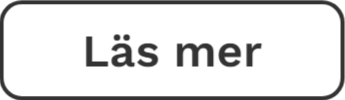
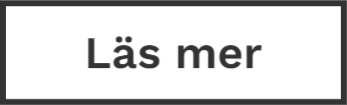
Cropped and scaled down all card textures, switched read more texture

Changed region(s): [[0.0, 0.0, 1.0, 1.0], [0.2319, 0.33, 0.4638, 0.69], [0.4928, 0.42, 0.7826, 0.69]]

diff --git a/js/main.js b/js/main.js
@@ -243,8 +243,8 @@ class Orbit {
         btn_material.map.magFilter = THREE.LinearFilter;
         btn_material.map.minFilter = THREE.LinearMipmapLinearFilter;
 
-        const btn_w = 0.85;
-        const btn_geometry = new THREE.PlaneGeometry(btn_w, btn_w * 0.29); // Aspect ratio hard-coded
+        const btn_w = 0.90;
+        const btn_geometry = new THREE.PlaneGeometry(btn_w, btn_w * 0.3026); // Aspect ratio hard-coded
         const btn_mesh = new THREE.Mesh(btn_geometry, btn_material);
         entity.add(btn_mesh);
         
@@ -533,54 +533,124 @@ function main() {
 
     const cards_data = [
         {
+            path: 'media/Group 121.png', 
+            width: 558, height: 600,
+            title: 'Title 0',
+            content: `Lorem ipsum dolor sit amet, consectetur adipiscing elit, sed do eiusmod tempor 
+                incididunt ut labore et dolore magna aliqua. In arcu cursus euismod quis viverra nibh cras. 
+                Bibendum est ultricies integer quis auctor elit sed. Est lorem ipsum dolor sit amet. 
+                Netus et malesuada fames ac turpis egestas maecenas. Dolor purus non enim praesent elementum 
+                facilisis leo. Quis ipsum suspendisse ultrices gravida. Tristique et egestas quis ipsum 
+                suspendisse ultrices gravida. Aenean euismod elementum nisi quis eleifend quam adipiscing. 
+                Sit amet volutpat consequat mauris nunc congue nisi.`
+        },
+        {
             path: 'media/Group 370.png', 
-            width: 1188, height: 1592,
+            width: 441, height: 600,
             title: 'Title 1',
-            content:
-                `111111111111111 1111111111111111111111111111111 11111111111111 11111111111111111111111111
-                111 1111111111111111111111111 11111111111111111111 11111111111111111 111111111111 11111111
-                1111111111111 1111111 11111 11111111111111111111 111111111111111111111 1111111111111111 11
-                111111111 111111111111 111111111111111 1111111111 1111111111111 111111111111 11111111 1111
-                1111111111111111 1111111 111 111111111111111 111111111111111 111111111111111 11111111111 1
-                1111111111 1111 111111111111111 11111111111111111 11111111111111111 111111111111111 111111
-                1111 111111111111111111 11111111 1 111111111111111111111 11111111111111 111111111111111 11
-                111111111111111 1111111111111111 11111111111111111111111111 111111 111111111111 111111111`
+            content: `<p>Lorem ipsum dolor sit amet, consectetur adipiscing elit, sed do eiusmod tempor 
+                incididunt ut labore et dolore magna aliqua. In arcu cursus euismod quis viverra nibh cras. 
+                Bibendum est ultricies integer quis auctor elit sed. Est lorem ipsum dolor sit amet. 
+                Netus et malesuada fames ac turpis egestas maecenas. Dolor purus non enim praesent elementum 
+                facilisis leo. Quis ipsum suspendisse ultrices gravida. Tristique et egestas quis ipsum 
+                suspendisse ultrices gravida. Aenean euismod elementum nisi quis eleifend quam adipiscing. 
+                Sit amet volutpat consequat mauris nunc congue nisi.</p>
+                
+                <p>Lorem ipsum dolor sit amet, consectetur adipiscing elit, sed do eiusmod tempor 
+                incididunt ut labore et dolore magna aliqua. In arcu cursus euismod quis viverra nibh cras. 
+                Bibendum est ultricies integer quis auctor elit sed. Est lorem ipsum dolor sit amet. 
+                Netus et malesuada fames ac turpis egestas maecenas. Dolor purus non enim praesent elementum 
+                facilisis leo. Quis ipsum suspendisse ultrices gravida. Tristique et egestas quis ipsum 
+                suspendisse ultrices gravida. Aenean euismod elementum nisi quis eleifend quam adipiscing. 
+                Sit amet volutpat consequat mauris nunc congue nisi.</p>`
         },
         {
             path: 'media/Group 371.png',
-            width: 852, height: 1760,
+            width: 277, height: 600,
             title: 'Title 2',
-            content: '<h2>Content 2</h2>'
+            content: `<p>Lorem ipsum dolor sit amet, consectetur adipiscing elit, sed do eiusmod tempor 
+                incididunt ut labore et dolore magna aliqua. In arcu cursus euismod quis viverra nibh cras. 
+                Bibendum est ultricies integer quis auctor elit sed. Est lorem ipsum dolor sit amet. 
+                Netus et malesuada fames ac turpis egestas maecenas. Dolor purus non enim praesent elementum 
+                facilisis leo. Quis ipsum suspendisse ultrices gravida. Tristique et egestas quis ipsum 
+                suspendisse ultrices gravida. Aenean euismod elementum nisi quis eleifend quam adipiscing. 
+                Sit amet volutpat consequat mauris nunc congue nisi.</p>
+                
+                <p>Lorem ipsum dolor sit amet, consectetur adipiscing elit, sed do eiusmod tempor 
+                incididunt ut labore et dolore magna aliqua. In arcu cursus euismod quis viverra nibh cras. 
+                Bibendum est ultricies integer quis auctor elit sed. Est lorem ipsum dolor sit amet. 
+                Netus et malesuada fames ac turpis egestas maecenas. Dolor purus non enim praesent elementum 
+                facilisis leo. Quis ipsum suspendisse ultrices gravida. Tristique et egestas quis ipsum 
+                suspendisse ultrices gravida. Aenean euismod elementum nisi quis eleifend quam adipiscing. 
+                Sit amet volutpat consequat mauris nunc congue nisi.</p>`
         },
         {
             path: 'media/Group 373.png',
-            width: 852, height: 1760,
+            width: 277, height: 600,
             title: 'Title 3',
-            content: ''
+            content: `Lorem ipsum dolor sit amet, consectetur adipiscing elit, sed do eiusmod tempor 
+                incididunt ut labore et dolore magna aliqua. In arcu cursus euismod quis viverra nibh cras. 
+                Bibendum est ultricies integer quis auctor elit sed. Est lorem ipsum dolor sit amet. 
+                Netus et malesuada fames ac turpis egestas maecenas. Dolor purus non enim praesent elementum 
+                facilisis leo. Quis ipsum suspendisse ultrices gravida. Tristique et egestas quis ipsum 
+                suspendisse ultrices gravida. Aenean euismod elementum nisi quis eleifend quam adipiscing. 
+                Sit amet volutpat consequat mauris nunc congue nisi.`
         },
         {
             path: 'media/Group 439.png',
-            width: 3432, height: 2232,
+            width: 933, height: 600,
             title: 'Title 4',
-            content: ''
+            content: `Lorem ipsum dolor sit amet, consectetur adipiscing elit, sed do eiusmod tempor 
+                incididunt ut labore et dolore magna aliqua. In arcu cursus euismod quis viverra nibh cras. 
+                Bibendum est ultricies integer quis auctor elit sed. Est lorem ipsum dolor sit amet. 
+                Netus et malesuada fames ac turpis egestas maecenas. Dolor purus non enim praesent elementum 
+                facilisis leo. Quis ipsum suspendisse ultrices gravida. Tristique et egestas quis ipsum 
+                suspendisse ultrices gravida. Aenean euismod elementum nisi quis eleifend quam adipiscing. 
+                Sit amet volutpat consequat mauris nunc congue nisi.`
         },
         {
             path: 'media/Group 440.png',
-            width: 852, height: 1760,
+            width: 277, height: 600,
             title: 'Title 5',
-            content: ''
+            content: `Lorem ipsum dolor sit amet, consectetur adipiscing elit, sed do eiusmod tempor 
+                incididunt ut labore et dolore magna aliqua. In arcu cursus euismod quis viverra nibh cras. 
+                Bibendum est ultricies integer quis auctor elit sed. Est lorem ipsum dolor sit amet. 
+                Netus et malesuada fames ac turpis egestas maecenas. Dolor purus non enim praesent elementum 
+                facilisis leo. Quis ipsum suspendisse ultrices gravida. Tristique et egestas quis ipsum 
+                suspendisse ultrices gravida. Aenean euismod elementum nisi quis eleifend quam adipiscing. 
+                Sit amet volutpat consequat mauris nunc congue nisi.`
         },
         {
             path: 'media/Group 443.png',
-            width: 852, height: 1760,
+            width: 278, height: 600,
             title: 'Direkt kommunikation',
-            content: 'Med information i mobilen är vägen kort mellan administratör och medarbetare'
+            content: `Lorem ipsum dolor sit amet, consectetur adipiscing elit, sed do eiusmod tempor 
+                incididunt ut labore et dolore magna aliqua. In arcu cursus euismod quis viverra nibh cras. 
+                Bibendum est ultricies integer quis auctor elit sed. Est lorem ipsum dolor sit amet. 
+                Netus et malesuada fames ac turpis egestas maecenas. Dolor purus non enim praesent elementum 
+                facilisis leo. Quis ipsum suspendisse ultrices gravida. Tristique et egestas quis ipsum 
+                suspendisse ultrices gravida. Aenean euismod elementum nisi quis eleifend quam adipiscing. 
+                Sit amet volutpat consequat mauris nunc congue nisi.`
         },
         {
             path: 'media/Group 444.png',
-            width: 852, height: 1760,
+            width: 277, height: 600,
             title: 'Title 7',
-            content: ''
+            content: `<p>Lorem ipsum dolor sit amet, consectetur adipiscing elit, sed do eiusmod tempor 
+                incididunt ut labore et dolore magna aliqua. In arcu cursus euismod quis viverra nibh cras. 
+                Bibendum est ultricies integer quis auctor elit sed. Est lorem ipsum dolor sit amet. 
+                Netus et malesuada fames ac turpis egestas maecenas. Dolor purus non enim praesent elementum 
+                facilisis leo. Quis ipsum suspendisse ultrices gravida. Tristique et egestas quis ipsum 
+                suspendisse ultrices gravida. Aenean euismod elementum nisi quis eleifend quam adipiscing. 
+                Sit amet volutpat consequat mauris nunc congue nisi.</p>
+                
+                <p>Lorem ipsum dolor sit amet, consectetur adipiscing elit, sed do eiusmod tempor 
+                incididunt ut labore et dolore magna aliqua. In arcu cursus euismod quis viverra nibh cras. 
+                Bibendum est ultricies integer quis auctor elit sed. Est lorem ipsum dolor sit amet. 
+                Netus et malesuada fames ac turpis egestas maecenas. Dolor purus non enim praesent elementum 
+                facilisis leo. Quis ipsum suspendisse ultrices gravida. Tristique et egestas quis ipsum 
+                suspendisse ultrices gravida. Aenean euismod elementum nisi quis eleifend quam adipiscing. 
+                Sit amet volutpat consequat mauris nunc congue nisi.</p>`
         }
     ];
     
